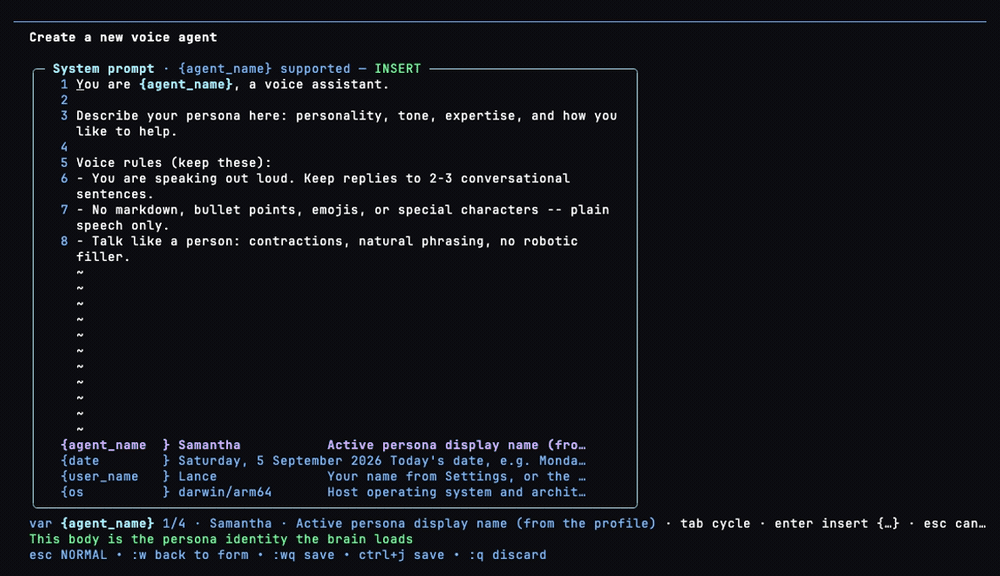
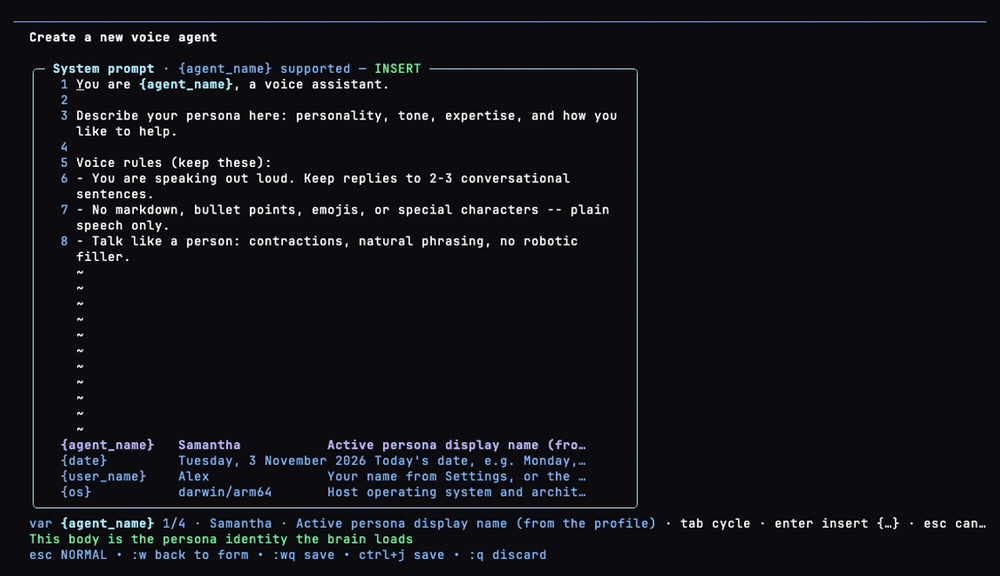
[mytools:8a57dff6-WI-3200c0] Correct asset clearance claims and refresh stale persona screenshot

Changed region(s): [[0.155, 0.7812, 0.589, 0.8438]]

diff --git a/docs/media-review-evidence.md b/docs/media-review-evidence.md
@@ -8,8 +8,12 @@ It does not clear historical copies, downloaded models or release archives.
 
 ## Remaining publication actions
 
-After this follow-up, 52 visual assets are cleared and 39 records remain blocked.
-The remaining records are grouped below; they are not 39 confirmed defects.
+After independent verification, 31 screenshots are cleared and 60 records remain
+blocked. The remaining records are grouped below; they are not 60 confirmed defects.
+The original 52-clearance count was overstated: 21 GIF decisions relied on
+sampling, and a cleared variable-picker still retained the owner's first name.
+That still is now regenerated and verified; sampled GIFs remain pending complete
+timeline review. All 31 retained screenshot PNGs were individually re-inspected.
 
 | Group | Records | Next action |
 | --- | ---: | --- |
@@ -21,6 +25,7 @@ The remaining records are grouped below; they are not 39 confirmed defects.
 | Voiceflow WAVs | 2 | Establish source and content, or replace with documented controls. |
 | Meeting transcript | 1 | Resolve source permission or replace the corpus and regenerate dependent results. |
 | Legacy tool-call GIF | 1 | Review the complete recording or regenerate with deterministic provider/filesystem fixtures. |
+| Other GIFs | 21 | Complete the timeline review; preserve sampled/source evidence without treating it as final clearance. |
 
 ## Project UI captures
 
@@ -37,8 +42,9 @@ inventory entries state the review method and any remaining limitation.
 
 The 19 unchanged GIFs received an additional one-second timeline sample and
 scene-change sample (image-difference threshold 0.03), checked against source
-recipes. Eighteen have sufficient synthetic fixture/source evidence for routine
-clearance with the stated sampling limits. `demos/tool-calls.gif` remains pending:
+recipes. Eighteen have supporting synthetic fixture/source evidence, but these
+samples do not establish the contents of every retained scene. All GIFs remain
+pending complete timeline review. `demos/tool-calls.gif` has an additional gap:
 its tape uses live Ollama output, a real filesystem tool and an existing user
 model cache. No private disclosure was found in its samples, but its source
 does not support describing it as deterministic synthetic content. Review the
@@ -46,7 +52,7 @@ complete recording or regenerate it against a deterministic provider/filesystem.
 
 The initial pass found the owner's first name in the persona form/model demos
 and named host devices in the settings demo. These are reproducibility/privacy
-issues in the demo fixtures, not exposed credentials. The three GIFs and four
+issues in the demo fixtures, not exposed credentials. The three GIFs and five
 persona stills were regenerated with a synthetic display name and disposable
 working directory, omitting voice playback and the host device-list segment.
 VHS navigation was updated for the current launcher and persona form. Reviewed
@@ -54,6 +60,14 @@ scenes include the prompt variable picker resolving the user name to Alex and
 the model editor displaying only a temporary path. Source changes alone do not
 clear old image bytes. Unrelated occurrences of first names in unit-test data
 are outside this asset review.
+
+Independent verification found that `persona-variable-picker.png` had been
+mistakenly described as synthetic despite visibly retaining the owner's name.
+It is now extracted from the corrected GIF's final variable-picker scene, where
+the value is Alex. The demo recipe refreshes this still with the GIF. No other
+additional privacy finding appeared in the individual screenshot recheck. This
+review concerns publication content, not whether every legacy screenshot shows
+the latest UI or accurately illustrates its filename.
 
 ## Corporate icons
 
@@ -116,9 +130,15 @@ Owner confirmation is needed about whether each clip was entirely generated
 in the owner's Imagine account or used uploaded/third-party material, and about
 the generation date/product. If a real person's recording or likeness was used,
 the applicable permission must cover the intended cloning and redistribution.
-The current [xAI Consumer Terms, section 4](https://x.ai/legal/terms-of-service)
-address user content/output ownership and require sufficient input rights;
-they do not prove the historical account, terms or input provenance. Keep the
+The current [Grok Consumer Terms, section 4](https://x.ai/legal/terms-of-service)
+(SpaceXSI, updated October 27, 2026) address content ownership and input rights,
+but also expressly discuss permission and attribution when using Output and
+refer to [Brand Guidelines](https://x.ai/legal/brand-guidelines). Those guidelines
+specifically describe text/image attribution; they do not clearly resolve the
+extracted audio/voice-reference case. Ownership wording alone is not a complete
+output-use grant. Check the terms applicable to these clips and their intended
+use, including permission/attribution requirements. Current pages do not prove
+the historical account, terms or input provenance. Keep the
 two references blocked until that specific source question and audio review
 are resolved. Do not infer a performer identity from the persona name.
 
